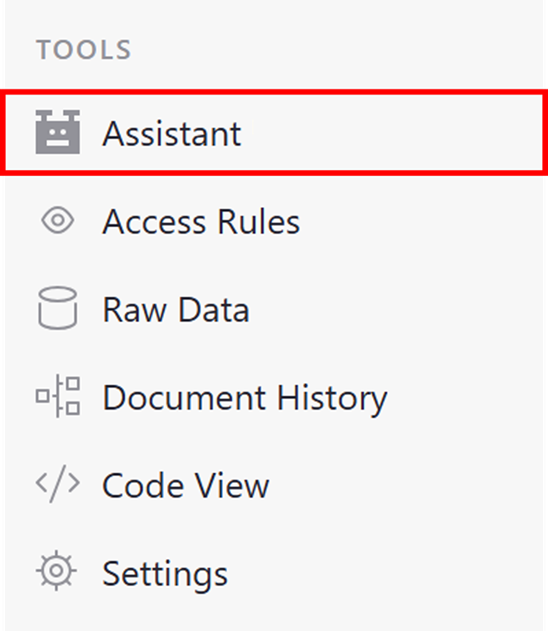
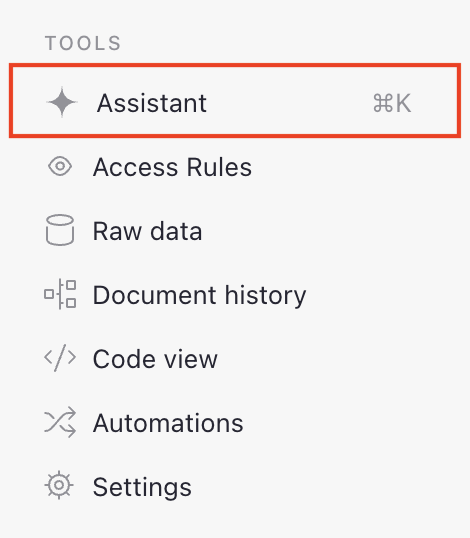
Update assistant docs post-redesign

diff --git a/help/en/docs/telemetry-full.md b/help/en/docs/telemetry-full.md
@@ -42,7 +42,7 @@ Triggered when a message is sent to the AI Assistant.
 | conversationId | string | A random identifier for the current conversation with the assistant. |
 | context | object | The context in which the assistant is open (e.g. column id). |
 | prompt | object | The role ("user" or "system"), content, and index of the message sent to the AI Assistant. |
-| developerPromptVersion | string | The developer prompt version. May be either `"default"` or `"new-document"`. |
+| developerPromptVersion | string | The developer prompt version. May be `"default"`, `"new-document"` or `"new-document-no-intro"`. |
 
 ## assistantReceive
 Triggered when a message is received from the AI Assistant.
@@ -60,7 +60,7 @@ Triggered when a message is received from the AI Assistant.
 | context | object | The context in which the assistant is open (e.g. column id). |
 | response | object | The content and index of the response received from the AI Assistant. |
 | suggestedFormula | string | The formula suggested by the AI Assistant, if present. |
-| developerPromptVersion | string | The developer prompt version. May be either `"default"` or `"new-document"`. |
+| developerPromptVersion | string | The developer prompt version. May be `"default"`, `"new-document"` or `"new-document-no-intro"`. |
 
 ## assistantSave
 Triggered when changes in the expanded formula editor are saved after the AI Assistant was opened.
@@ -135,7 +135,8 @@ Triggered when a user begins the process of creating a document using the AI Ass
 | ----- | ---- | ----------- |
 | userId | number | The id of the user that triggered this event. |
 | altSessionId | string | A random, session-based identifier for the user that triggered this event. |
-| prompt | string | The message sent to the AI Assistant. |
+| prompt | object | The message sent to the AI Assistant. |
+| developerPromptVersion | string | The developer prompt version. May be `"default"`, `"new-document"` or `"new-document-no-intro"`. |
 
 ## beaconOpen
 Triggered when HelpScout Beacon is opened.
@@ -145,29 +146,11 @@ Triggered when HelpScout Beacon is opened.
 | userId | number | The id of the user that triggered this event. |
 | altSessionId | string | A random, session-based identifier for the user that triggered this event. |
 
-## beaconArticleViewed
-Triggered when an article is opened in HelpScout Beacon.
-
-| Field | Type | Description |
-| ----- | ---- | ----------- |
-| articleId | string | The id of the article. |
-| userId | number | The id of the user that triggered this event. |
-| altSessionId | string | A random, session-based identifier for the user that triggered this event. |
-
 ## beaconEmailSent
 Triggered when an email is sent in HelpScout Beacon.
 
 | Field | Type | Description |
 | ----- | ---- | ----------- |
-| userId | number | The id of the user that triggered this event. |
-| altSessionId | string | A random, session-based identifier for the user that triggered this event. |
-
-## beaconSearch
-Triggered when a search is made in HelpScout Beacon.
-
-| Field | Type | Description |
-| ----- | ---- | ----------- |
-| searchQuery | string | The search query. |
 | userId | number | The id of the user that triggered this event. |
 | altSessionId | string | A random, session-based identifier for the user that triggered this event. |
 
@@ -243,6 +226,8 @@ Triggered on doc open and close, as well as hourly while a document is open.
 | rowCount | number | The number of rows in the document. |
 | dataSizeBytes | number | The total size of all data in the document, excluding attachments. |
 | attachmentsSize | number | The total size of all attachments in the document. |
+| dataLimitStatus | string | The document's data limit status: "approachingLimit", "gracePeriod", "deleteOnly", or null. |
+| numDocShares | number | The number of users granted access directly on the document, in any non-guest role. |
 | numAccessRules | number | The number of access rules in the document. |
 | numUserAttributes | number | The number of user attributes in the document. |
 | numAttachments | number | The number of attachments in the document. |
@@ -498,6 +483,8 @@ Triggered on subscription to a plan.
 | ----- | ---- | ----------- |
 | planName | string | The name of the plan. |
 | userId | number | The id of the user that triggered this event. |
+| siteId | number | The id of the site. |
+| placement | string | The UI element whose upgrade prompt led to creating the site, when known. |
 
 ## cancelledPlan
 Triggered on cancellation of a plan.
@@ -506,6 +493,56 @@ Triggered on cancellation of a plan.
 | ----- | ---- | ----------- |
 | planName | string | The name of the plan. |
 | userId | number | The id of the user that triggered this event. |
+
+## limitStatusChanged
+Triggered when usage of a plan-limited feature crosses a threshold: approaching the limit, reaching it, becoming read-only, or dropping back below the approaching threshold.
+
+| Field | Type | Description |
+| ----- | ---- | ----------- |
+| feature | string | The limited feature: "rows", "dataSize", "attachments", "assistant", "apiCalls", or "siteUsers". |
+| status | string | The new status: "approaching", "exceeded", "readOnly", or "cleared". |
+| planName | string | The name of the site's plan. |
+| docIdDigest | string | A hash of the doc id, when the limit is per document. |
+| access | string | The document access level of the user that triggered this event. |
+| siteId | number | The id of the site. |
+| siteType | string | The type of the site. |
+| userId | number | The id of the user that triggered this event. |
+| altSessionId | string | A random, session-based identifier for the user that triggered this event. |
+
+## upsellShown
+Triggered once per page load when a UI element offering an upgrade is shown.
+
+| Field | Type | Description |
+| ----- | ---- | ----------- |
+| placement | string | The UI element that offered the upgrade. |
+| planName | string | The name of the site's plan. |
+| siteId | number | The id of the site. |
+| docIdDigest | string | A hash of the doc id, when shown inside a document. |
+| userId | number | The id of the user that triggered this event. |
+| altSessionId | string | A random, session-based identifier for the user that triggered this event. |
+
+## upgradeClicked
+Triggered when a user clicks an upgrade prompt.
+
+| Field | Type | Description |
+| ----- | ---- | ----------- |
+| placement | string | The UI element that offered the upgrade. |
+| planName | string | The name of the site's plan. |
+| siteId | number | The id of the site. |
+| userId | number | The id of the user that triggered this event. |
+| altSessionId | string | A random, session-based identifier for the user that triggered this event. |
+
+## changedPlan
+Triggered when the plan of an existing site changes.
+
+| Field | Type | Description |
+| ----- | ---- | ----------- |
+| siteId | number | The id of the site. |
+| fromPlan | string | The name of the previous plan. |
+| toPlan | string | The name of the new plan. |
+| isTrial | boolean | Whether the new subscription is in a trial period. |
+| placement | string | The UI element whose upgrade prompt led to checkout, when the change came through checkout. |
+| userId | number | The id of the user that triggered this event, when a user did. |
 
 ## createdWorkspace
 Triggered when a workspace is created.

diff --git a/help/en/docs/keyboard-shortcuts.md b/help/en/docs/keyboard-shortcuts.md
@@ -23,6 +23,11 @@ title: Keyboard shortcuts
 | <code class="keys">*⌘* *⇧* *G*</code> | <code class="keys">*Ctrl* + *Shift* + *G*</code> | Find previous occurrence |
 | <code class="keys">*⌘* *Enter*</code> | <code class="keys">*Ctrl* + *Enter*</code> | When in the search bar, close it and focus the current match |
 
+###Menu shortcuts
+| Key (Mac) | Key (Windows) | Description | 
+| - | - | - | 
+| <code class="keys">*⌘* *K*</code> | <code class="keys">*Ctrl* + *K*</code> | Toggle the assistant |
+
 ###Navigation
 | Key (Mac) | Key (Windows) | Description | 
 | - | - | - | 
@@ -43,6 +48,8 @@ title: Keyboard shortcuts
 | <code class="keys">*⌃* *O*</code> | <code class="keys">*Ctrl* + *O*</code> | Focus next page panel or widget |
 | <code class="keys">*⌃* *⇧* *O*</code> | <code class="keys">*Ctrl* + *Shift* + *O*</code> | Focus previous page panel or widget |
 | <code class="keys">*⌃* *⌥* *O*</code> | <code class="keys">*Ctrl* + *Alt* + *O*</code> | Toggle creator panel keyboard focus |
+| <code class="keys">*⌃* *I*</code> | <code class="keys">*Ctrl* + *I*</code> | When focused on a widget, move focus between widget and widget header |
+| <code class="keys">*⌃* *I*</code> | <code class="keys">*Ctrl* + *I*</code> | When focused on a page panel, focus next landmark |
 | <code class="keys">*Space*</code> | <code class="keys">*Space*</code> | Show the record card widget of the selected record |
 | <code class="keys">*⌃* *Enter*</code>,<code class="keys">*⇧* *F10*</code> | <code class="keys">*Menu*</code>,<code class="keys">*Shift* + *F10*</code> | Open the context menu |
 | <code class="keys">*⌃* *⇧* *Enter*</code>,<code class="keys">*⌃* *⇧* *F10*</code> | <code class="keys">*Ctrl* + *Menu*</code>,<code class="keys">*Ctrl* + *Shift* + *F10*</code> | Open the current column menu |

diff --git a/help/en/docs/install/assistant.md b/help/en/docs/install/assistant.md
@@ -64,6 +64,9 @@ If a model you don't see has worked for you, you may [open a pull request](https
 
  * `ASSISTANT_CHAT_COMPLETION_ENDPOINT`: the chat completion endpoint to use (default: `https://api.openai.com/v1/chat/completions`)
  * `ASSISTANT_API_KEY`: an API key to include in requests to the chat completion endpoint
- * `ASSISTANT_MODEL`: the value of the `model` parameter for the chat completion endpoint (default: `gpt-4o-2024-08-06`)
+ * `ASSISTANT_MODEL`: the value of the `model` parameter for the chat completion endpoint (default: `gpt-5.6-luna`)
  * `ASSISTANT_LONGER_CONTEXT_MODEL`: if set, retry requests that exceed context limits with this model
- * `ASSISTANT_MAX_TOOL_CALLS`: the maximum number of tool calls allowed in a single request (default: `10`)
+ * `ASSISTANT_MAX_TOKENS`: if set, the maximum number of tokens the model may generate in a single response
+ * `ASSISTANT_MAX_TOOL_CALLS`: the maximum number of tool calls allowed in a single request (default: `20`)
+ * `ASSISTANT_STRUCTURED_OUTPUT`: if `true`, ask the model to reply with structured JSON output; requires an endpoint and model that support the [response_format](https://platform.openai.com/docs/api-reference/chat/create#chat_create-response_format) parameter with a JSON schema (default: `false`)
+ 

diff --git a/help/en/docs/assistant.md b/help/en/docs/assistant.md
@@ -18,14 +18,14 @@ No data is shared with OpenAI unless a user submits a question to the assistant.
 
 ## How to use the Assistant
 
-The Assistant is available under the 'Tools' menu in the left-hand navigation panel.
+The Assistant is available under the 'Tools' menu in the left-hand navigation panel. You can also open it from anywhere in a document by pressing <code class="keys">*Ctrl* + *K*</code> on Windows or <code class="keys">*⌘* *K*</code> on Mac.
 
 <span class="screenshot-large">*![Opening Assistant](images/assistant/assistant-tools-menu.png)*</span>
 {: .screenshot-half }
 
 This opens the Assistant panel — a chat-style interface where you can ask for help with formulas, data transformation, data analysis, and more. Simply describe what you're trying to do, and the assistant will guide you through it.
 
-<span class="screenshot-large">*![Assistant panel](images/assistant/assistant-popup.png)*</span>
+<span class="screenshot-large">*![Assistant panel](images/assistant/assistant-panel.png)*</span>
 {: .screenshot-half }
 
 ## Pricing for the Assistant

diff --git a/help/en/docs/creating-doc.md b/help/en/docs/creating-doc.md
@@ -10,8 +10,15 @@ To get started with Grist you'll first need to create a document.
 Each document can store different kinds of data, so think of it as a
 collection of *related* data.
 
-You can start from scratch or import existing data. Click the "Add New" button on
-the home screen and choose either "Create empty document" or "Import document".
+You can start from an idea by describing the document you want to build to the
+[Grist AI Assistant](assistant.md), or click either "Blank document",
+"Import file", or "Templates".
+
+*![home-screen](images/home-screen.png)*
+{: .screenshot-large }
+
+You can also click the "Add New" button and choose either "Create empty document"
+or "Import document".
 
 *![add-new-menu](images/add-new-menu.png)*
 {: .screenshot-half }
